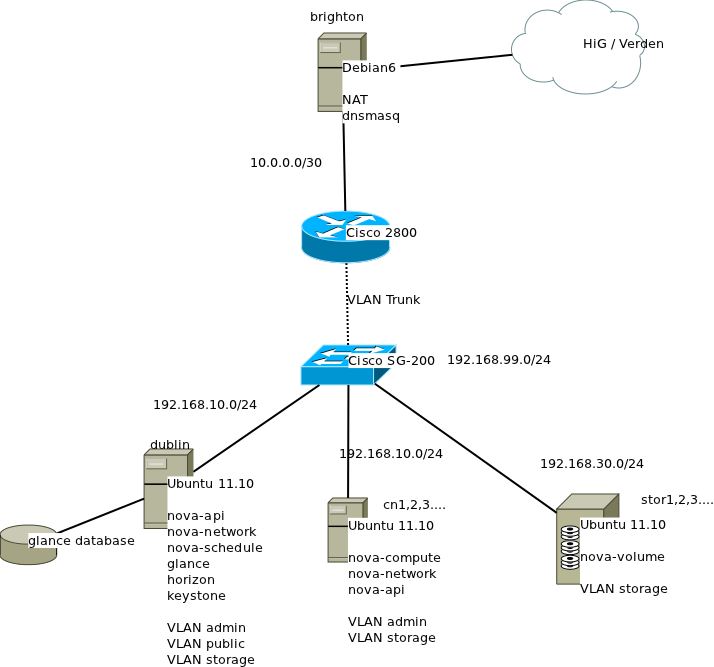
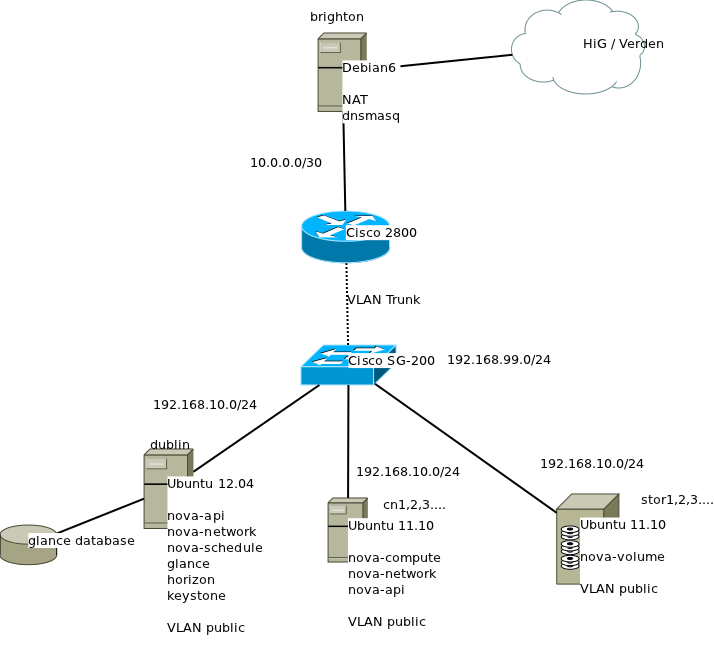
La til gårsdagens tekst

diff --git a/sluttrapport.rst b/sluttrapport.rst
@@ -864,16 +864,21 @@ Brukere av lagringssystemet må identifiseres og autentiseres (f.eks via keyston
 
 Containers er nærmest ekvivalente til mapper i tradisjonelle filsystemer. Forskjellen er at containers ikke kan nøstes på samme måte. Objects er på samme måte ekvivalent til filer. Et object kan ha en mengde metadata knyttet til seg i form “key-value” par. Dette er ment for å beskrive objekter best mulig.
 
-(Quantum)
+Quantum
 ..........
 
-Quantum er en modul som gir nettverkstilkobling-as-a-service for enheter som administreres av andre OpenStack-tjenester.
+Quantum er tjeneste for virtuelle L2 [#]_ nettverk. Den tilbyr et API for nettverkstrafikk mellom enheter fra de forskjellige OpenStack tjenestene, hovedsaklig i form av virtuelle switcher. For å realisere dette, bruker man en plugin (f.eks Open vSwitch eller Cisco Quantum plugin), slik at Quantum API blir et abstraksjonslag på samme måte som Nova. De virtuelle switchene vil ha samme muligheter for konfigurasjon som fysiske switcher, f.eks QoS, port security, monitorering osv. Det mest naturlige er å knytte Quantum sammen med Nova, for å skape interne logiske nett for prosjekter. Quantum er også natulig å kombinere med Melange. I skrivende stund mangler Quantum muligheten for å lage identiske interne nett, slik at muligheten til å ha identiske prosjekter, med identiske interne nett (som ikke er det samme logisk nettet) ikke er til stede.
 
-(Melange)
+
+Melange
 ..........
 
-Melange gir nettverks-informasjons-tjenester med fokuks på administrering av IP-adresser. 
+Melange er en tjeneste med fokus på IPAM (IP Address Management) og DHCP, for å gi en mer mer fleksibel løsning for L3 [#]_ addressering av virtuelle maskiner enn den som er innebygget i Nova. I fremtiden er det ventet at den også vil håndtere DNS, ruting og gateway mot internett, og i så måte ta over mye av de standard nettverksløsningene som finnes i nova i nåværende utgave.
 
+Melange-modulen er meget ny, og ble først innlemmet som en offisiell modul i Essex-utgaven. Det foreligger mange dokumenter på Melange sin fremitd, både som uavhengig og modul, og hvordan den skal implementeres med nova. Blant annet er det planlagt at den skal slåes sammen med Quantum. 
+
+.. [#] OSI Layer 2 - Fysisk adressering
+.. [#] OSI Layer 3 - Nettverkslaget, logisk adressering (IP)
 
 MVC
 ***
@@ -990,7 +995,6 @@ Nettverk
    "SkyRoute, Cisco 2800", "fa0/0", "ec:44:76:68:16:94", "10.0.0.2/30", ""
    "", "fa0/1", "ec:44:76:68:16:95", "192.168.99.1/24", ""
    "", "fa0/1.10", "''", "192.168.10.1/24", ""
-   "", "fa0/1.20", "''", "192.168.20.1/24", ""
    "", "fa0/1.30", "''", "192.168.30.1/24", ""
 
 
@@ -1002,26 +1006,26 @@ Nettverk
    "", "GE13-18", "1000mbit", "100-115 (VLAN for VM'er)", "på"
    "", "GE19-24", "1000mbit", "30 (storage)", "av"
    "", "GE25", "1000Mbit", "99 (native/management)", "av"
-   "", "GE26", "1000Mbit", "10, 20, 30, 99", "på"
+   "", "GE26", "1000Mbit", "10, 30, 99", "på"
 
 
 .. csv-table:: Tabell 11: Servere
    :header: "**Navn**", "**CPU**", "**RAM**", "**Disk**", "**IP**"
 
-   "dublin", "Intel Xeon 3060 2.4 GHz", "4GiB", "2 x 250 GB", "eth0: 192.168.10.2, eth1: oppe - ingen IP, eth3: 192.168.30.2"
-   "manchester", "Intel Xeon 3060 2.4 GHz", "4GB", "2 x 250 GB", "eth0: 192.168.20.10, eth1: ioppe - ingen IP"
-   "newcastle", "Intel Xeon 3060 2.4 GHz", "2GiB", "2 x 250 GB", "eth0: 192.168.20.12, eth1: oppe - ingen IP"
-   "cardiff", "Intel Xeon 3060 2.4 GHz", "2GiB", "2 x 250 GB", "eth0: 192.168.20.11, eth1: oppe - ingen IP"
-   "kingston", "", "", "12 x 250 GB", "eth0: 192.168.30.20"
+   "dublin", "Intel Xeon 3060 2.4 GHz", "4GiB", "2 x 250 GB", "eth0: 192.168.10.2, eth1: oppe - ingen IP"
+   "manchester", "Intel Xeon 3060 2.4 GHz", "4GiB", "2 x 250 GB", "eth0: 192.168.10.10, eth1: ioppe - ingen IP"
+   "cardiff", "Intel Xeon 3060 2.4 GHz", "2GiB", "2 x 250 GB", "eth0: 192.168.10.11, eth1: oppe - ingen IP"
+	 "newcastle", "Intel Xeon 3060 2.4 GHz", "2GiB", "2 x 250 GB", "eth0: 192.168.10.12, eth1: oppe - ingen IP"
+   "kingston", "Intel Xeon 3060 2.4 GHz", "4GiB", "12 x 250 GB", "bond0: 192.168.10.185, eth0: oppe - link aggregation, eth1: oppe - link aggregation"
 
 I prosjektperioden vil nettverkstopologien være som vist i figuren. Satt i produksjon vil man antageligvis fjerne routeren og DHCP-serveren vi ser øverst i figuren, slik at man benytter seg av offentlige IP’er (globale IP’er delt ut fra HiG). For testformål har vi satt opp vårt eget lokale nettverk bak en dedikert linuxmaskin som kjører NAT og DHCP, slik at vi beskytter testoppsettet fra offentligheten, og unngår å forstyrre noe av HiGs infrastruktur.
 
 
 På switchen er det satt opp ulike VLAN. Standard management-VLAN er flyttet vekk fra VLAN 1, til VLAN 99, i følge beste praksis. VLAN 10 for internettilgang (public), et dedikert VLAN til lagringsnodene (VLAN 30, storage), og i tillegg er det satt opp åtte trunk-porter for trafikk mellom instansene. Det blir opprettet ett nytt VLAN for hvert prosjekt i OpenStack. Dette vil kunne bli et problem dersom man ruller ut i stor skala, siden maks teoretisk antall VLAN er 4096, og av dem igjen er noen reserverte. For vår oppdragsgiver vil nok dette neppe bli noe problem i første omgang, men gitt et scenario der hver student ved skolen skal få tilgang, i tillegg til de emnene som skal bruke systemet, vil dette bli et problem.
 
-Løsningen på dette problemet kan imdlertid være på vei. Sommeren 2011 lanserte# Cisco nyheten VXLAN (Virtual eXtensible LAN). I korte trekk er dette en utvidelese av dagens VLAN-teknologi, der VLAN-ID feltet i pakken er doblet fra dagens 12 bit til 24 bit. Det åpner for et teoretisk maksimum på over 16 millioner (2^24) unike VLAN-ID’er. Et annet skaleringsproblem er utrulling av VLAN til ulike switcher. I dag er VTP# eneste mulighet, men det er ofte deaktivert av sikkerhetshensyn, og man er da tvunget til å konfigurere switchene mer eller mindre manuelt. VXLAN har muligheten for å distribusjon over lag 3 (f.eks IP). Muligheten for å bygge inn støtte for VXLAN i OpenStack er allerede i utviklerenes tanker#, og vil ganske sikkert bli implementert i fremtidige versjoner.
+Løsningen på dette problemet kan imdlertid være på vei. Sommeren 2011 lanserte# Cisco nyheten VXLAN (Virtual eXtensible LAN). I korte trekk er dette en utvidelese av dagens VLAN-teknologi, der VLAN-ID feltet i pakken er doblet fra dagens 12 bit til 24 bit. Det åpner for et teoretisk maksimum på over 16 millioner (2^24) unike VLAN-ID’er. Et annet skaleringsproblem er utrulling av VLAN til ulike switcher. I dag er VTP [#]_ eneste mulighet, men det er ofte deaktivert av sikkerhetshensyn, og man er da tvunget til å konfigurere switchene mer eller mindre manuelt. VXLAN har muligheten for å distribusjon over lag 3 (f.eks IP). Muligheten for å bygge inn støtte for VXLAN i OpenStack er allerede i utviklerenes tanker<ref>, og det er allerede implementert støtte for en Cisco plugin i Quantum. Denne støtter imdlertid ikke VXLAN foreløpig.
 
-Valget av DHCP-server falt på *dnsmasq*. Den har en meget enkel konfigurasjon, samtidig som den uten konfigurasjon over hodet, fungerer som DNS-forwarder for alle DHCP-klienter. Eksempel på konfigurasjon ligger i vedlegg B. For å få det interne nettverket bak routeren til å få kontakt med *dnsmasq* måtte det settes opp et DHCP-relay# i *SkyRoute*. I en cisco-router er slik funksjonalitet innebygget, og gjøres med kommandoen
+Valget av DHCP-server falt på *dnsmasq*. Den har en meget enkel konfigurasjon, samtidig som den uten konfigurasjon over hodet, fungerer som DNS-forwarder for alle DHCP-klienter. Eksempel på konfigurasjon ligger i vedlegg B. For å få det interne nettverket bak routeren til å få kontakt med *dnsmasq* måtte det settes opp et DHCP-relay [#]_ i *SkyRoute*. I en cisco-router er slik funksjonalitet innebygget, og gjøres med kommandoen
 
 ::
   
@@ -1070,17 +1074,15 @@ Konfigurasjonen blir hentet tilbake i oppstarten, ved å legge inn
 
 i oppstartsskriptet */etc/rc.local*.
 
-http://blogs.cisco.com/datacenter/introducing-vxlan/
-
-VLAN Trunking Protocol
-
-http://blogs.cisco.com/openatcisco/integrating-vxlan-in-openstack-quantum/
-
-Tjeneste som lytter etter DHCPREQUEST fra andre nettverk, og videresender de til en gitt IP.
+.. [#] VLAN Trunking Protocol
+.. [#] Tjeneste som lytter etter DHCPREQUEST fra andre nettverk, og videresender de til en gitt IP
 
 
 Nettverk i OpenStack
 *********************
+
+Nettverksmodeller
+.................
 
 Tjenesten nova-network håndterer alle nettverksoppgaver i OpenStack. Det finnes tre forskjellige modeller å velge i mellom:
   - FlatNetworking
@@ -1089,7 +1091,12 @@ Tjenesten nova-network håndterer alle nettverksoppgaver i OpenStack. Det finnes
 
 Uavhengig av hvilken modell man velger, er det mange forskjellige muligheter for infrastruktur i OpenStack. Vi vil ikke gå i dybden på alle disse, men fokusere på den som er gjeldende for vårt oppsett.
 
-Alle våre noder har to nettverkskort. Det ene av disse er satt opp som “public interface” med tilgang til internett. Det andre er satt opp uten IP-adresse. OpenStack setter opp en nettverksbro per prosjekt bundet til dette nettverkskortet, som gir de virtuelle maskinene i samme prosjekt muligheten til å snakke med hverandre. I tillegg sørger nova-network for å legge inn regler i iptables, for å rute trafikk fra instansene til internett via den compute-noden instansen kjører på.
+Alle våre noder har to nettverkskort. På compute nodene er det ene av disse er satt opp som “public interface” med tilgang til internett. Det andre er satt opp uten IP-adresse. På volume noden er de to to nettverkskortene satt opp med aggregering, for å doble den teoretiske båndbredden fra 1 Gbps til 2 Gbps. Dette er fyldig forklart i bacheloroppgaven SkyHigh I/O <ref>. OpenStack setter opp en nettverksbro per prosjekt, bundet til nettverkskortet uten IP-adresse. Broen gir de virtuelle maskinene i samme prosjekt muligheten til å snakke med hverandre. I tillegg sørger nova-network for å legge inn regler i iptables, for å rute trafikk fra instansene til internett via den compute-noden instansen kjører på.
+
+.. figure:: internal_net.png
+   :scale: 300%
+
+   Figur 5: Internt nettverk
 
 **Flat Networking**
 
@@ -1108,6 +1115,38 @@ Denne modellen er standardmodellen, og også den vi har valgt. Her opprettes det
 CloudPipe er en spesiell instans som opptrer som VPN-server. For å få aksess til instansene må man sette opp en slik, og hente ut sertifikat og nøkkel fra denne. Alternativet til dette er å benytte seg av konseptet floating IP. Man definerer en sett IP-adresser, gjerne et helt subnet, med globale IP-adresser man kan legge til instansene. Måten det fungerer på, er at IP-adressen blir lagt til på prosjektets nettverksbro, og det blir opprettet iptables-regler for å rute trafikken til rett instans. Vi har valgt å bruke floating IP i vår implementasjon, med tanke på brukervennlighet. Her trengs det ingen komplisert oppkobling for sluttbrukeren.
 
 Denne modellen passer godt i større implementasjoner, siden den er mest dynamisk. Her trengs ingen manuell konfigurasjon av nettverksbroer eller andre nettverkskort. Alt blir gjort dynamisk. Modellen avhenger av at man har nettverksutstyr som takler IEEE 802.1Q VLAN-tagging.
+
+
+Floating og fixed IP adressering
+................................
+
+OpenStack bruker to konsepter for IP-adressering, fixed IP og floating IP. Alle instanser får en fixed IP fra sitt prosjekts respektive “fixed” nettverk. Hvordan denne deles ut, kommer ann på hvilken av nettverksmodellene man har var. Det subnettet fixed IP bruker, er ikke tilgjengelig utenfor instansene i samme prosjekt, og er følgelig å anse som et internt nett. Compute noden som instansene kjører på vil som tildligerere nevnt få satt opp regler i iptables for å rute trafikk inn og ut mot andre nett.
+
+For å gi instansene en offentlig IP-adresse, må man tilegne den en floating IP. Å gjøre dette er en to stegs prosess. Først må man allokere en adresse fra et definert pool, og deretter må man koble denne adressen til en instans. I konfigurasjonen av nova definerer man et subnet med offentlig adresser man kan allokere floating IP adresser i fra. Dette trenger ikke nødvendigvis å være globalt rutbare adresser, men det må naturligvis være adresser på et nett som er tilgjengelig for brukeren.
+
+Floating IP blir satt opp av nova-network. Det blir satt opp regler i iptables både for filtrering av trafikk og for nat. Itillegg blir adresser fysisk lagt til på det nettverkskortet som er defintert som public interface i novas konfigurasjon.
+
+Her ser vi utdrag fra loggen etter at en floating IP (192.168.10.129) er tilknyttet en instans:
+
+::
+
+	2012-04-24 14:15:06 DEBUG nova.utils [req-0420a717-6545-4a2e-a02e-22837f484250 <user_id> <tenant_id>] 
+	Running cmd (subprocess): sudo ip addr add 192.168.10.129/32 dev eth0 from (pid=13753) execute /usr/lib/python2.7/dist-packages/nova/utils.py:219
+	2012-04-24 14:15:06 DEBUG nova.utils [req-0420a717-6545-4a2e-a02e-22837f484250 <user_id> <tenant_id>] 
+	Running cmd (subprocess): sudo iptables-save -t filter from (pid=13753) execute /usr/lib/python2.7/dist-packages/nova/utils.py:219
+	2012-04-24 14:15:06 DEBUG nova.utils [req-0420a717-6545-4a2e-a02e-22837f484250 <user_id> <tenant_id>] 
+	Running cmd (subprocess): sudo iptables-restore from (pid=13753) execute /usr/lib/python2.7/dist-packages/nova/utils.py:219
+	2012-04-24 14:15:06 DEBUG nova.utils [req-0420a717-6545-4a2e-a02e-22837f484250 <user_id> <tenant_id>] 
+	Running cmd (subprocess): sudo iptables-save -t nat from (pid=13753) execute /usr/lib/python2.7/dist-packages/nova/utils.py:219
+	2012-04-24 14:15:06 DEBUG nova.utils [req-0420a717-6545-4a2e-a02e-22837f484250 <user_id> <tenant_id>] 
+	Running cmd (subprocess): sudo iptables-restore from (pid=13753) execute /usr/lib/python2.7/dist-packages/nova/utils.py:219
+
+Før kallene til iptables, blir reglene generert av novas API. I dette tilfellet, vil følgende regel bli lagt til: 
+
+::
+
+	target     prot opt source               destination         
+	SNAT       all  --  172.16.0.3           anywhere            to:192.168.10.129 
 
 
 Installasjon av OpenStack
@@ -1265,9 +1304,15 @@ Cisco CCNA Exploration 4.0 LAN Switching & Wireless, kap 3 VLANs
 Cisco CCNA Exploration 4.0 LAN Switching & Wireless, kap 6 Inter-VLAN routing
 Cisco CCNA Exploration 4.0 Accessing the WAN, kap 7.1 DHCP  
 ⁴ http://blogs.cisco.com/datacenter/digging-deeper-into-vxlan/ 14.03.12
+http://blogs.cisco.com/datacenter/introducing-vxlan/ 14.03.12
+http://blogs.cisco.com/openatcisco/integrating-vxlan-in-openstack-quantum/ 14.03.12
 http://docs.openstack.org/trunk/openstack-compute/admin/content/ 23.04.12
 http://www.rabbitmq.com/tutorials/amqp-concepts.html 23.04.12
 https://github.com/openstack/nova/tree/master/nova/scheduler 23.04.12
+http://docs.openstack.org/incubation/openstack-network/admin/content/Preface-d1e71.html 24.04.12
+http://wiki.openstack.org/Melange 24.04.12
+http://www.slideshare.net/troytoman/openstack-folsom-summit-melange-overview 24.04.12
+https://blueprints.launchpad.net/nova/+spec/network-refactoring 24.04.12
 
 
 .. raw:: pdf
